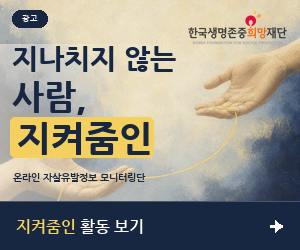
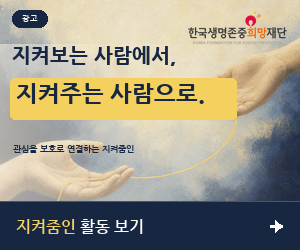
Refine protection-focused campaign copy

Changed region(s): [[0.03, 0.168, 0.81, 0.644], [0.03, 0.672, 0.48, 0.728]]

diff --git a/docs/404.html b/docs/404.html
@@ -4,23 +4,23 @@
   <meta charset="utf-8">
   <meta name="viewport" content="width=device-width, initial-scale=1">
   <meta name="theme-color" content="#172641">
-  <title>지나치지 않는 사람, 지켜줌인 — 사람 사이의 링크</title>
-  <meta name="description" content="한국생명존중희망재단의 지켜줌인 활동을 소개하고 온라인 자살유발정보 모니터링과 신고 참여로 연결하는 생명존중 공익 캠페인입니다.">
+  <title>지켜보는 사람에서, 지켜주는 사람으로 — 사람 사이의 링크</title>
+  <meta name="description" content="한국생명존중희망재단의 지켜줌인 활동을 소개하고 시민의 관심을 보호 행동으로 연결하는 생명존중 공익 캠페인입니다.">
   <link rel="canonical" href="https://ssy2205.github.io/people-between-links/">
   <link rel="icon" href="./assets/favicon.svg" type="image/svg+xml">
   <meta property="og:type" content="website">
   <meta property="og:locale" content="ko_KR">
-  <meta property="og:title" content="지나치지 않는 사람, 지켜줌인">
-  <meta property="og:description" content="시민의 관심을 교육과 공식 신고 시스템으로 연결하는 한국생명존중희망재단 가치 확산 캠페인">
+  <meta property="og:title" content="지켜보는 사람에서, 지켜주는 사람으로">
+  <meta property="og:description" content="시민의 관심을 참여·교육·공식 신고라는 보호 행동으로 연결하는 한국생명존중희망재단 가치 확산 캠페인">
   <meta property="og:url" content="https://ssy2205.github.io/people-between-links/">
   <meta property="og:image" content="https://ssy2205.github.io/people-between-links/assets/campaign-banner-300.png">
   <meta property="og:image:width" content="300">
   <meta property="og:image:height" content="250">
-  <meta property="og:image:alt" content="지나치지 않는 사람, 지켜줌인">
+  <meta property="og:image:alt" content="지켜보는 사람에서, 지켜주는 사람으로">
   <meta name="twitter:card" content="summary">
   <link rel="stylesheet" href="./styles.css">
 </head>
 <body>
-<main class="site-shell"><a class="skip-link" href="#main-content">본문 바로가기</a><div class="campaign-bar" aria-label="캠페인 안내"><div class="container campaign-bar-inner"><span class="campaign-dot" aria-hidden="true"></span><span>한국생명존중희망재단 가치 확산 캠페인</span><span class="campaign-bar-note">관심을 신고와 참여로 연결합니다</span></div></div><header class="site-header"><nav class="container nav" aria-label="주요 메뉴"><a class="foundation-brand" href="https://www.kfsp.or.kr/" target="_blank" rel="noreferrer" aria-label="한국생명존중희망재단 공식 사이트 새 창 열기"><img src="./assets/kfsp-ci.png" alt="한국생명존중희망재단"/></a><div class="nav-links"><a href="#about">지켜줌인이란</a><a href="#foundation">재단의 역할</a><a href="#join">참여 방법</a></div><a class="nav-cta" href="https://sims.kfsp.or.kr/?pMENU_NO=265" target="_blank" rel="noreferrer">자살유발정보 신고하기 <span aria-hidden="true">↗</span></a></nav></header><section class="hero" id="main-content" aria-labelledby="hero-title"><div class="hero-wash" aria-hidden="true"></div><div class="container hero-grid"><div class="hero-copy"><p class="eyebrow"><span>LINK 01</span> 사람 사이의 링크</p><h1 id="hero-title">지나치지 않는<br/>사람,<br/><em>지켜줌인.</em></h1><p class="hero-lede">온라인에서 마주친 자살유발정보를 보고 지나치지 않는 사람. 모니터링과 신고로 생명존중의 연결망을 넓혀 주세요.</p><div class="hero-actions"><a class="button button-primary" href="https://www.kfsp.or.kr/home/kor/contents.do?menuPos=2#none" target="_blank" rel="noreferrer">지켜줌인 활동 참여하기 <span aria-hidden="true">↗</span></a><a class="button button-secondary" href="https://sims.kfsp.or.kr/?pMENU_NO=265" target="_blank" rel="noreferrer">바로 신고하기 <span aria-hidden="true">→</span></a></div><p class="hero-micro">만 19세 이상 국민 누구나 참여할 수 있습니다.</p></div><div class="hero-visual" role="img" aria-label="두 손 사이의 금빛 실이 관심과 신고를 연결하는 캠페인 이미지"><img class="hero-visual-image" src="./assets/life-thread-oil-v2.png" alt=""/><div class="hero-visual-shade" aria-hidden="true"></div><span class="visual-chip">사람 사이의 링크</span><div class="visual-node visual-node-left"><small>발견한 순간</small><strong>관심</strong></div><span class="visual-thread" aria-hidden="true"></span><div class="visual-node visual-node-right"><small>이어지는 행동</small><strong>신고</strong></div><p class="visual-caption">보고,<br/>연결하고,<br/>지키는 일.</p></div></div><div class="container fact-bar" aria-label="지켜줌인 참여 핵심 정보"><div><span>참여 대상</span><strong>만 19세 이상 누구나</strong></div><div><span>활동 공간</span><strong>온라인 전반</strong></div><div><span>활동 시작</span><strong>1365 회원가입</strong></div></div></section><section class="about section" id="about" aria-labelledby="about-title"><div class="container about-grid"><div class="section-number" aria-hidden="true">01</div><div class="about-copy"><p class="eyebrow">지켜줌인(人)이란?</p><h2 id="about-title">발견한 순간,<br/><em>연결은 시작됩니다.</em></h2><p class="section-lede">지켜줌인은 생명존중문화 확산을 위해 온라인 자살유발정보를 자발적으로 모니터링하는 자원봉사자입니다. 한 번의 관심을 실제 신고와 기록으로 이어 온라인 환경을 함께 지킵니다.</p><a class="text-link" href="https://www.kfsp.or.kr/home/kor/contents.do?menuPos=2#none" target="_blank" rel="noreferrer">재단 공식 활동 안내 확인하기 <span aria-hidden="true">↗</span></a></div><aside class="quote-card" aria-label="캠페인 핵심 문장"><span class="quote-mark" aria-hidden="true">“</span><p>지나치지 않은 관심을,<br/><strong>지켜내는 행동으로.</strong></p><span class="quote-rule" aria-hidden="true"></span><small>관심에서 신고까지, 사람 사이의 링크</small></aside></div></section><section class="public-value section" id="foundation" aria-labelledby="foundation-title"><div class="container"><div class="section-heading"><div><p class="eyebrow"><span>02</span> 한국생명존중희망재단의 공공적 가치</p><h2 id="foundation-title">관심을 참여로,<br/><em>참여를 안전망으로.</em></h2></div><p>재단은 시민의 관심이 일회성 선의에 머물지 않도록 참여 기회와 교육, 공식 신고 시스템을 하나의 활동 경로로 연결합니다.</p></div><div class="value-grid"><article class="value-card"><div class="value-card-top"><span>A</span><i aria-hidden="true"></i></div><div><p>시민이 함께할 수 있도록</p><h3>참여의 문</h3><p>만 19세 이상 국민 누구나 생명존중문화 확산에 참여할 수 있는 시민 활동 경로를 엽니다.</p></div></article><article class="value-card"><div class="value-card-top"><span>B</span><i aria-hidden="true"></i></div><div><p>관심이 책임 있게 이어지도록</p><h3>교육된 실천</h3><p>1365·SIMS 가입과 사전교육을 거쳐 관심을 책임 있는 온라인 모니터링 활동으로 연결합니다.</p></div></article><article class="value-card"><div class="value-card-top"><span>C</span><i aria-hidden="true"></i></div><div><p>발견이 공식 행동이 되도록</p><h3>공적 신고 체계</h3><p>게시물 신고와 활동 기록이 미디어 자살정보 모니터링 시스템 안에서 이어지게 합니다.</p></div></article></div><div class="value-summary"><span aria-hidden="true"></span><p>지켜줌인은 재단의 역할을 가장 가까운 시민 행동으로 경험하게 하는 참여 경로입니다.</p><a class="text-link" href="https://www.kfsp.or.kr/home/kor/contents.do?menuPos=2#none" target="_blank" rel="noreferrer">공식 근거 확인하기 <span aria-hidden="true">↗</span></a></div></div></section><section class="join section section-dark" id="join" aria-labelledby="join-title"><div class="container"><div class="section-heading section-heading-light"><div><p class="eyebrow eyebrow-light"><span>03</span> 참여 방법</p><h2 id="join-title">관심이 행동이 되는<br/><em>세 단계.</em></h2></div><p>공식 안내에 따라 계정을 준비하고 사전교육을 마치면, 온라인 모니터링과 신고 활동을 시작할 수 있습니다.</p></div><div class="step-line" aria-hidden="true"></div><div class="step-grid"><article class="step-card"><span class="step-number yellow">01</span><h3>1365 회원가입</h3><p>봉사활동 실적 연계를 위해 1365 자원봉사포털 계정을 준비합니다.</p></article><article class="step-card"><span class="step-number blue">02</span><h3>SIMS 가입</h3><p>미디어 자살정보 모니터링 시스템에 가입하고 활동 준비를 마칩니다.</p></article><article class="step-card"><span class="step-number coral">03</span><h3>교육 후 활동</h3><p>사전교육을 이수한 뒤 온라인 모니터링과 신고 활동을 시작합니다.</p></article></div><div class="join-action"><p>준비되셨나요? 정확한 가입 절차와 최신 활동 조건은 재단 공식 안내에서 확인하세요.</p><a class="button button-primary" href="https://www.kfsp.or.kr/home/kor/contents.do?menuPos=2#none" target="_blank" rel="noreferrer">지켜줌인 활동 안내 보기 <span aria-hidden="true">↗</span></a></div></div></section><section class="activity section" id="activity" aria-labelledby="activity-title"><div class="container"><div class="section-heading"><div><p class="eyebrow"><span>04</span> 활동 내용</p><h2 id="activity-title">보고, 신고하고,<br/><em>기록합니다.</em></h2></div><p>복잡한 설명보다 실제 활동을 한눈에 이해할 수 있도록 공식 안내의 핵심만 세 가지로 정리했습니다.</p></div><div class="activity-grid"><article class="activity-card"><span>A</span><h3>모니터링</h3><p>SNS·포털·커뮤니티 등 온라인 공간의 자살유발·유해정보를 살펴봅니다.</p></article><article class="activity-card"><span>B</span><h3>게시물 신고</h3><p>발견한 정보는 해당 매체의 신고 기능을 통해 조치 요청합니다.</p></article><article class="activity-card"><span>C</span><h3>SIMS 활동 입력</h3><p>활동 내용을 미디어 자살정보 모니터링 시스템에 기록합니다.</p></article></div><div class="report-panel"><div><p class="report-kicker">이미 신고할 정보가 있나요?</p><h3>지금, 공식 신고 화면으로 연결합니다.</h3><p>신고 접수와 확인은 한국생명존중희망재단의 미디어 자살정보 모니터링 시스템에서 진행됩니다.</p></div><a class="button button-light" href="https://sims.kfsp.or.kr/?pMENU_NO=265" target="_blank" rel="noreferrer">자살유발정보 신고하기 <span aria-hidden="true">↗</span></a></div></div></section><section class="network section section-yellow" aria-labelledby="network-title"><div class="container network-grid"><div class="network-copy"><p class="eyebrow"><span>05</span> 연결망의 확장</p><h2 id="network-title">한 사람의 관심이<br/><em>혼자 남지 않도록.</em></h2><p>지켜줌인은 개인의 관심을 교육과 정보, 현장의 실천으로 잇는 재단의 참여 경로입니다. 연결된 행동이 생명존중문화를 넓힙니다.</p><a class="button button-dark" href="https://sims.kfsp.or.kr/" target="_blank" rel="noreferrer">SIMS에서 활동 시작하기 <span aria-hidden="true">↗</span></a></div><div class="network-visual" role="img" aria-label="관심, 교육, 정보, 현장이 모두 도움으로 연결된 생명존중 연결망"><span class="network-ring ring-one" aria-hidden="true"></span><span class="network-ring ring-two" aria-hidden="true"></span><span class="network-ring ring-three" aria-hidden="true"></span><span class="network-line line-a" aria-hidden="true"></span><span class="network-line line-b" aria-hidden="true"></span><span class="network-line line-c" aria-hidden="true"></span><span class="network-line line-d" aria-hidden="true"></span><span class="network-node node-one">관심</span><span class="network-node node-two">교육</span><span class="network-node node-three">정보</span><span class="network-node node-four">현장</span><span class="network-center">도움</span></div></div></section><section class="final-cta section" aria-labelledby="final-title"><div class="container final-cta-inner"><div><p class="eyebrow eyebrow-light">사람 사이의 링크</p><h2 id="final-title">지켜보는 사람에서,<br/><em>지켜주는 사람으로.</em></h2><p>당신의 관심을 지켜줌인 활동과 신고로 연결해 주세요.</p></div><div class="final-actions"><a class="button button-primary" href="https://www.kfsp.or.kr/home/kor/contents.do?menuPos=2#none" target="_blank" rel="noreferrer">지켜줌인 활동 참여하기 <span aria-hidden="true">↗</span></a><a class="button button-outline-light" href="https://sims.kfsp.or.kr/?pMENU_NO=265" target="_blank" rel="noreferrer">자살유발정보 신고하기 <span aria-hidden="true">↗</span></a></div></div></section><footer class="footer"><div class="container footer-main"><div><a class="footer-logo" href="https://www.kfsp.or.kr/" target="_blank" rel="noreferrer"><img src="./assets/kfsp-ci.png" alt="한국생명존중희망재단"/></a><p>본 페이지는 2026 전국 대학생 생명존중 광고공모전 출품을 위해 제작된 공익 캠페인 랜딩페이지입니다. 참여와 신고는 공식 사이트에서 진행됩니다.</p></div><div class="footer-links"><a href="https://www.kfsp.or.kr/home/kor/contents.do?menuPos=2#none" target="_blank" rel="noreferrer">지켜줌인 활동 안내 ↗</a><a href="https://sims.kfsp.or.kr/?pMENU_NO=265" target="_blank" rel="noreferrer">자살유발정보 신고 ↗</a><a href="https://www.kfsp.or.kr/" target="_blank" rel="noreferrer">재단 공식 사이트 ↗</a><a href="https://inec.or.kr/board/detail/1411" target="_blank" rel="noreferrer">공모전 안내 ↗</a></div></div><div class="container support-note"><span>지금 마음이 힘들거나 즉각적인 도움이 필요하다면</span><a href="tel:109">24시간 자살예방상담전화 109</a></div><div class="container footer-bottom"><span>사람 사이의 링크 · 2026</span><span>도움은 연결될 때 가까워집니다.</span></div></footer><a class="mobile-cta" href="https://www.kfsp.or.kr/home/kor/contents.do?menuPos=2#none" target="_blank" rel="noreferrer">지켜줌인 참여하기 <span aria-hidden="true">↗</span></a></main>
+<main class="site-shell"><a class="skip-link" href="#main-content">본문 바로가기</a><div class="campaign-bar" aria-label="캠페인 안내"><div class="container campaign-bar-inner"><span class="campaign-dot" aria-hidden="true"></span><span>한국생명존중희망재단 가치 확산 캠페인</span><span class="campaign-bar-note">관심을 보호로 연결합니다</span></div></div><header class="site-header"><nav class="container nav" aria-label="주요 메뉴"><a class="foundation-brand" href="https://www.kfsp.or.kr/" target="_blank" rel="noreferrer" aria-label="한국생명존중희망재단 공식 사이트 새 창 열기"><img src="./assets/kfsp-ci.png" alt="한국생명존중희망재단"/></a><div class="nav-links"><a href="#about">지켜줌인이란</a><a href="#foundation">재단의 역할</a><a href="#join">참여 방법</a></div><a class="nav-cta" href="https://sims.kfsp.or.kr/?pMENU_NO=265" target="_blank" rel="noreferrer">자살유발정보 신고하기 <span aria-hidden="true">↗</span></a></nav></header><section class="hero" id="main-content" aria-labelledby="hero-title"><div class="hero-wash" aria-hidden="true"></div><div class="container hero-grid"><div class="hero-copy"><p class="eyebrow"><span>LINK 01</span> 사람 사이의 링크</p><h1 id="hero-title">지켜보는 사람에서,<br/><em>지켜주는 사람으로.</em></h1><p class="hero-lede">온라인에서 마주친 자살유발정보를 지나치지 않고, 지켜줌인 활동으로 생명존중의 환경을 지켜 주세요.</p><div class="hero-actions"><a class="button button-primary" href="https://www.kfsp.or.kr/home/kor/contents.do?menuPos=2#none" target="_blank" rel="noreferrer">지켜줌인 활동 참여하기 <span aria-hidden="true">↗</span></a><a class="button button-secondary" href="https://sims.kfsp.or.kr/?pMENU_NO=265" target="_blank" rel="noreferrer">바로 신고하기 <span aria-hidden="true">→</span></a></div><p class="hero-micro">만 19세 이상 국민 누구나 참여할 수 있습니다.</p></div><div class="hero-visual" role="img" aria-label="두 손 사이의 금빛 실이 관심과 신고를 연결하는 캠페인 이미지"><img class="hero-visual-image" src="./assets/life-thread-oil-v2.png" alt=""/><div class="hero-visual-shade" aria-hidden="true"></div><span class="visual-chip">사람 사이의 링크</span><div class="visual-node visual-node-left"><small>발견한 순간</small><strong>관심</strong></div><span class="visual-thread" aria-hidden="true"></span><div class="visual-node visual-node-right"><small>이어지는 행동</small><strong>신고</strong></div><p class="visual-caption">보고,<br/>연결하고,<br/>지키는 일.</p></div></div><div class="container fact-bar" aria-label="지켜줌인 참여 핵심 정보"><div><span>참여 대상</span><strong>만 19세 이상 누구나</strong></div><div><span>활동 공간</span><strong>온라인 전반</strong></div><div><span>활동 시작</span><strong>1365 회원가입</strong></div></div></section><section class="about section" id="about" aria-labelledby="about-title"><div class="container about-grid"><div class="section-number" aria-hidden="true">01</div><div class="about-copy"><p class="eyebrow">지켜줌인(人)이란?</p><h2 id="about-title">관심이 닿는 순간,<br/><em>보호가 시작됩니다.</em></h2><p class="section-lede">지켜줌인은 생명존중문화 확산을 위해 온라인 자살유발정보를 자발적으로 모니터링하는 자원봉사자입니다. 한 번의 관심을 실제 신고와 기록으로 이어 온라인 환경을 함께 지킵니다.</p><a class="text-link" href="https://www.kfsp.or.kr/home/kor/contents.do?menuPos=2#none" target="_blank" rel="noreferrer">재단 공식 활동 안내 확인하기 <span aria-hidden="true">↗</span></a></div><aside class="quote-card" aria-label="캠페인 핵심 문장"><span class="quote-mark" aria-hidden="true">“</span><p>지켜보는 관심을,<br/><strong>지켜주는 행동으로.</strong></p><span class="quote-rule" aria-hidden="true"></span><small>관심에서 신고까지, 사람 사이의 링크</small></aside></div></section><section class="public-value section" id="foundation" aria-labelledby="foundation-title"><div class="container"><div class="section-heading"><div><p class="eyebrow"><span>02</span> 한국생명존중희망재단의 공공적 가치</p><h2 id="foundation-title">관심을 참여로,<br/><em>참여를 안전망으로.</em></h2></div><p>재단은 시민의 관심이 일회성 선의에 머물지 않도록 참여 기회와 교육, 공식 신고 시스템을 하나의 활동 경로로 연결합니다.</p></div><div class="value-grid"><article class="value-card"><div class="value-card-top"><span>A</span><i aria-hidden="true"></i></div><div><p>시민이 함께할 수 있도록</p><h3>참여의 문</h3><p>만 19세 이상 국민 누구나 생명존중문화 확산에 참여할 수 있는 시민 활동 경로를 엽니다.</p></div></article><article class="value-card"><div class="value-card-top"><span>B</span><i aria-hidden="true"></i></div><div><p>관심이 책임 있게 이어지도록</p><h3>교육된 실천</h3><p>1365·SIMS 가입과 사전교육을 거쳐 관심을 책임 있는 온라인 모니터링 활동으로 연결합니다.</p></div></article><article class="value-card"><div class="value-card-top"><span>C</span><i aria-hidden="true"></i></div><div><p>발견이 공식 행동이 되도록</p><h3>공적 신고 체계</h3><p>게시물 신고와 활동 기록이 미디어 자살정보 모니터링 시스템 안에서 이어지게 합니다.</p></div></article></div><div class="value-summary"><span aria-hidden="true"></span><p>지켜줌인은 재단의 역할을 가장 가까운 시민 행동으로 경험하게 하는 참여 경로입니다.</p><a class="text-link" href="https://www.kfsp.or.kr/home/kor/contents.do?menuPos=2#none" target="_blank" rel="noreferrer">공식 근거 확인하기 <span aria-hidden="true">↗</span></a></div></div></section><section class="join section section-dark" id="join" aria-labelledby="join-title"><div class="container"><div class="section-heading section-heading-light"><div><p class="eyebrow eyebrow-light"><span>03</span> 참여 방법</p><h2 id="join-title">관심이 행동이 되는<br/><em>세 단계.</em></h2></div><p>공식 안내에 따라 계정을 준비하고 사전교육을 마치면, 온라인 모니터링과 신고 활동을 시작할 수 있습니다.</p></div><div class="step-line" aria-hidden="true"></div><div class="step-grid"><article class="step-card"><span class="step-number yellow">01</span><h3>1365 회원가입</h3><p>봉사활동 실적 연계를 위해 1365 자원봉사포털 계정을 준비합니다.</p></article><article class="step-card"><span class="step-number blue">02</span><h3>SIMS 가입</h3><p>미디어 자살정보 모니터링 시스템에 가입하고 활동 준비를 마칩니다.</p></article><article class="step-card"><span class="step-number coral">03</span><h3>교육 후 활동</h3><p>사전교육을 이수한 뒤 온라인 모니터링과 신고 활동을 시작합니다.</p></article></div><div class="join-action"><p>준비되셨나요? 정확한 가입 절차와 최신 활동 조건은 재단 공식 안내에서 확인하세요.</p><a class="button button-primary" href="https://www.kfsp.or.kr/home/kor/contents.do?menuPos=2#none" target="_blank" rel="noreferrer">지켜줌인 활동 안내 보기 <span aria-hidden="true">↗</span></a></div></div></section><section class="activity section" id="activity" aria-labelledby="activity-title"><div class="container"><div class="section-heading"><div><p class="eyebrow"><span>04</span> 활동 내용</p><h2 id="activity-title">보고, 신고하고,<br/><em>기록합니다.</em></h2></div><p>복잡한 설명보다 실제 활동을 한눈에 이해할 수 있도록 공식 안내의 핵심만 세 가지로 정리했습니다.</p></div><div class="activity-grid"><article class="activity-card"><span>A</span><h3>모니터링</h3><p>SNS·포털·커뮤니티 등 온라인 공간의 자살유발·유해정보를 살펴봅니다.</p></article><article class="activity-card"><span>B</span><h3>게시물 신고</h3><p>발견한 정보는 해당 매체의 신고 기능을 통해 조치 요청합니다.</p></article><article class="activity-card"><span>C</span><h3>SIMS 활동 입력</h3><p>활동 내용을 미디어 자살정보 모니터링 시스템에 기록합니다.</p></article></div><div class="report-panel"><div><p class="report-kicker">이미 신고할 정보가 있나요?</p><h3>지금, 공식 신고 화면으로 연결합니다.</h3><p>신고 접수와 확인은 한국생명존중희망재단의 미디어 자살정보 모니터링 시스템에서 진행됩니다.</p></div><a class="button button-light" href="https://sims.kfsp.or.kr/?pMENU_NO=265" target="_blank" rel="noreferrer">자살유발정보 신고하기 <span aria-hidden="true">↗</span></a></div></div></section><section class="network section section-yellow" aria-labelledby="network-title"><div class="container network-grid"><div class="network-copy"><p class="eyebrow"><span>05</span> 연결망의 확장</p><h2 id="network-title">한 사람의 관심이<br/><em>혼자 남지 않도록.</em></h2><p>지켜줌인은 개인의 관심을 교육과 정보, 현장의 실천으로 잇는 재단의 참여 경로입니다. 연결된 행동이 생명존중문화를 넓힙니다.</p><a class="button button-dark" href="https://sims.kfsp.or.kr/" target="_blank" rel="noreferrer">SIMS에서 활동 시작하기 <span aria-hidden="true">↗</span></a></div><div class="network-visual" role="img" aria-label="관심, 교육, 정보, 현장이 모두 도움으로 연결된 생명존중 연결망"><span class="network-ring ring-one" aria-hidden="true"></span><span class="network-ring ring-two" aria-hidden="true"></span><span class="network-ring ring-three" aria-hidden="true"></span><span class="network-line line-a" aria-hidden="true"></span><span class="network-line line-b" aria-hidden="true"></span><span class="network-line line-c" aria-hidden="true"></span><span class="network-line line-d" aria-hidden="true"></span><span class="network-node node-one">관심</span><span class="network-node node-two">교육</span><span class="network-node node-three">정보</span><span class="network-node node-four">현장</span><span class="network-center">도움</span></div></div></section><section class="final-cta section" aria-labelledby="final-title"><div class="container final-cta-inner"><div><p class="eyebrow eyebrow-light">사람 사이의 링크</p><h2 id="final-title">지켜보는 사람에서,<br/><em>지켜주는 사람으로.</em></h2><p>당신의 관심을 지켜줌인 활동과 공식 신고로 연결해 주세요.</p></div><div class="final-actions"><a class="button button-primary" href="https://www.kfsp.or.kr/home/kor/contents.do?menuPos=2#none" target="_blank" rel="noreferrer">지켜줌인 활동 참여하기 <span aria-hidden="true">↗</span></a><a class="button button-outline-light" href="https://sims.kfsp.or.kr/?pMENU_NO=265" target="_blank" rel="noreferrer">자살유발정보 신고하기 <span aria-hidden="true">↗</span></a></div></div></section><footer class="footer"><div class="container footer-main"><div><a class="footer-logo" href="https://www.kfsp.or.kr/" target="_blank" rel="noreferrer"><img src="./assets/kfsp-ci.png" alt="한국생명존중희망재단"/></a><p>본 페이지는 2026 전국 대학생 생명존중 광고공모전 출품을 위해 제작된 공익 캠페인 랜딩페이지입니다. 참여와 신고는 공식 사이트에서 진행됩니다.</p></div><div class="footer-links"><a href="https://www.kfsp.or.kr/home/kor/contents.do?menuPos=2#none" target="_blank" rel="noreferrer">지켜줌인 활동 안내 ↗</a><a href="https://sims.kfsp.or.kr/?pMENU_NO=265" target="_blank" rel="noreferrer">자살유발정보 신고 ↗</a><a href="https://www.kfsp.or.kr/" target="_blank" rel="noreferrer">재단 공식 사이트 ↗</a><a href="https://inec.or.kr/board/detail/1411" target="_blank" rel="noreferrer">공모전 안내 ↗</a></div></div><div class="container support-note"><span>지금 마음이 힘들거나 즉각적인 도움이 필요하다면</span><a href="tel:109">24시간 자살예방상담전화 109</a></div><div class="container footer-bottom"><span>사람 사이의 링크 · 2026</span><span>관심은 보호로 이어집니다.</span></div></footer><a class="mobile-cta" href="https://www.kfsp.or.kr/home/kor/contents.do?menuPos=2#none" target="_blank" rel="noreferrer">지켜줌인 참여하기 <span aria-hidden="true">↗</span></a></main>
 </body>
 </html>

diff --git a/docs/index.html b/docs/index.html
@@ -4,23 +4,23 @@
   <meta charset="utf-8">
   <meta name="viewport" content="width=device-width, initial-scale=1">
   <meta name="theme-color" content="#172641">
-  <title>지나치지 않는 사람, 지켜줌인 — 사람 사이의 링크</title>
-  <meta name="description" content="한국생명존중희망재단의 지켜줌인 활동을 소개하고 온라인 자살유발정보 모니터링과 신고 참여로 연결하는 생명존중 공익 캠페인입니다.">
+  <title>지켜보는 사람에서, 지켜주는 사람으로 — 사람 사이의 링크</title>
+  <meta name="description" content="한국생명존중희망재단의 지켜줌인 활동을 소개하고 시민의 관심을 보호 행동으로 연결하는 생명존중 공익 캠페인입니다.">
   <link rel="canonical" href="https://ssy2205.github.io/people-between-links/">
   <link rel="icon" href="./assets/favicon.svg" type="image/svg+xml">
   <meta property="og:type" content="website">
   <meta property="og:locale" content="ko_KR">
-  <meta property="og:title" content="지나치지 않는 사람, 지켜줌인">
-  <meta property="og:description" content="시민의 관심을 교육과 공식 신고 시스템으로 연결하는 한국생명존중희망재단 가치 확산 캠페인">
+  <meta property="og:title" content="지켜보는 사람에서, 지켜주는 사람으로">
+  <meta property="og:description" content="시민의 관심을 참여·교육·공식 신고라는 보호 행동으로 연결하는 한국생명존중희망재단 가치 확산 캠페인">
   <meta property="og:url" content="https://ssy2205.github.io/people-between-links/">
   <meta property="og:image" content="https://ssy2205.github.io/people-between-links/assets/campaign-banner-300.png">
   <meta property="og:image:width" content="300">
   <meta property="og:image:height" content="250">
-  <meta property="og:image:alt" content="지나치지 않는 사람, 지켜줌인">
+  <meta property="og:image:alt" content="지켜보는 사람에서, 지켜주는 사람으로">
   <meta name="twitter:card" content="summary">
   <link rel="stylesheet" href="./styles.css">
 </head>
 <body>
-<main class="site-shell"><a class="skip-link" href="#main-content">본문 바로가기</a><div class="campaign-bar" aria-label="캠페인 안내"><div class="container campaign-bar-inner"><span class="campaign-dot" aria-hidden="true"></span><span>한국생명존중희망재단 가치 확산 캠페인</span><span class="campaign-bar-note">관심을 신고와 참여로 연결합니다</span></div></div><header class="site-header"><nav class="container nav" aria-label="주요 메뉴"><a class="foundation-brand" href="https://www.kfsp.or.kr/" target="_blank" rel="noreferrer" aria-label="한국생명존중희망재단 공식 사이트 새 창 열기"><img src="./assets/kfsp-ci.png" alt="한국생명존중희망재단"/></a><div class="nav-links"><a href="#about">지켜줌인이란</a><a href="#foundation">재단의 역할</a><a href="#join">참여 방법</a></div><a class="nav-cta" href="https://sims.kfsp.or.kr/?pMENU_NO=265" target="_blank" rel="noreferrer">자살유발정보 신고하기 <span aria-hidden="true">↗</span></a></nav></header><section class="hero" id="main-content" aria-labelledby="hero-title"><div class="hero-wash" aria-hidden="true"></div><div class="container hero-grid"><div class="hero-copy"><p class="eyebrow"><span>LINK 01</span> 사람 사이의 링크</p><h1 id="hero-title">지나치지 않는<br/>사람,<br/><em>지켜줌인.</em></h1><p class="hero-lede">온라인에서 마주친 자살유발정보를 보고 지나치지 않는 사람. 모니터링과 신고로 생명존중의 연결망을 넓혀 주세요.</p><div class="hero-actions"><a class="button button-primary" href="https://www.kfsp.or.kr/home/kor/contents.do?menuPos=2#none" target="_blank" rel="noreferrer">지켜줌인 활동 참여하기 <span aria-hidden="true">↗</span></a><a class="button button-secondary" href="https://sims.kfsp.or.kr/?pMENU_NO=265" target="_blank" rel="noreferrer">바로 신고하기 <span aria-hidden="true">→</span></a></div><p class="hero-micro">만 19세 이상 국민 누구나 참여할 수 있습니다.</p></div><div class="hero-visual" role="img" aria-label="두 손 사이의 금빛 실이 관심과 신고를 연결하는 캠페인 이미지"><img class="hero-visual-image" src="./assets/life-thread-oil-v2.png" alt=""/><div class="hero-visual-shade" aria-hidden="true"></div><span class="visual-chip">사람 사이의 링크</span><div class="visual-node visual-node-left"><small>발견한 순간</small><strong>관심</strong></div><span class="visual-thread" aria-hidden="true"></span><div class="visual-node visual-node-right"><small>이어지는 행동</small><strong>신고</strong></div><p class="visual-caption">보고,<br/>연결하고,<br/>지키는 일.</p></div></div><div class="container fact-bar" aria-label="지켜줌인 참여 핵심 정보"><div><span>참여 대상</span><strong>만 19세 이상 누구나</strong></div><div><span>활동 공간</span><strong>온라인 전반</strong></div><div><span>활동 시작</span><strong>1365 회원가입</strong></div></div></section><section class="about section" id="about" aria-labelledby="about-title"><div class="container about-grid"><div class="section-number" aria-hidden="true">01</div><div class="about-copy"><p class="eyebrow">지켜줌인(人)이란?</p><h2 id="about-title">발견한 순간,<br/><em>연결은 시작됩니다.</em></h2><p class="section-lede">지켜줌인은 생명존중문화 확산을 위해 온라인 자살유발정보를 자발적으로 모니터링하는 자원봉사자입니다. 한 번의 관심을 실제 신고와 기록으로 이어 온라인 환경을 함께 지킵니다.</p><a class="text-link" href="https://www.kfsp.or.kr/home/kor/contents.do?menuPos=2#none" target="_blank" rel="noreferrer">재단 공식 활동 안내 확인하기 <span aria-hidden="true">↗</span></a></div><aside class="quote-card" aria-label="캠페인 핵심 문장"><span class="quote-mark" aria-hidden="true">“</span><p>지나치지 않은 관심을,<br/><strong>지켜내는 행동으로.</strong></p><span class="quote-rule" aria-hidden="true"></span><small>관심에서 신고까지, 사람 사이의 링크</small></aside></div></section><section class="public-value section" id="foundation" aria-labelledby="foundation-title"><div class="container"><div class="section-heading"><div><p class="eyebrow"><span>02</span> 한국생명존중희망재단의 공공적 가치</p><h2 id="foundation-title">관심을 참여로,<br/><em>참여를 안전망으로.</em></h2></div><p>재단은 시민의 관심이 일회성 선의에 머물지 않도록 참여 기회와 교육, 공식 신고 시스템을 하나의 활동 경로로 연결합니다.</p></div><div class="value-grid"><article class="value-card"><div class="value-card-top"><span>A</span><i aria-hidden="true"></i></div><div><p>시민이 함께할 수 있도록</p><h3>참여의 문</h3><p>만 19세 이상 국민 누구나 생명존중문화 확산에 참여할 수 있는 시민 활동 경로를 엽니다.</p></div></article><article class="value-card"><div class="value-card-top"><span>B</span><i aria-hidden="true"></i></div><div><p>관심이 책임 있게 이어지도록</p><h3>교육된 실천</h3><p>1365·SIMS 가입과 사전교육을 거쳐 관심을 책임 있는 온라인 모니터링 활동으로 연결합니다.</p></div></article><article class="value-card"><div class="value-card-top"><span>C</span><i aria-hidden="true"></i></div><div><p>발견이 공식 행동이 되도록</p><h3>공적 신고 체계</h3><p>게시물 신고와 활동 기록이 미디어 자살정보 모니터링 시스템 안에서 이어지게 합니다.</p></div></article></div><div class="value-summary"><span aria-hidden="true"></span><p>지켜줌인은 재단의 역할을 가장 가까운 시민 행동으로 경험하게 하는 참여 경로입니다.</p><a class="text-link" href="https://www.kfsp.or.kr/home/kor/contents.do?menuPos=2#none" target="_blank" rel="noreferrer">공식 근거 확인하기 <span aria-hidden="true">↗</span></a></div></div></section><section class="join section section-dark" id="join" aria-labelledby="join-title"><div class="container"><div class="section-heading section-heading-light"><div><p class="eyebrow eyebrow-light"><span>03</span> 참여 방법</p><h2 id="join-title">관심이 행동이 되는<br/><em>세 단계.</em></h2></div><p>공식 안내에 따라 계정을 준비하고 사전교육을 마치면, 온라인 모니터링과 신고 활동을 시작할 수 있습니다.</p></div><div class="step-line" aria-hidden="true"></div><div class="step-grid"><article class="step-card"><span class="step-number yellow">01</span><h3>1365 회원가입</h3><p>봉사활동 실적 연계를 위해 1365 자원봉사포털 계정을 준비합니다.</p></article><article class="step-card"><span class="step-number blue">02</span><h3>SIMS 가입</h3><p>미디어 자살정보 모니터링 시스템에 가입하고 활동 준비를 마칩니다.</p></article><article class="step-card"><span class="step-number coral">03</span><h3>교육 후 활동</h3><p>사전교육을 이수한 뒤 온라인 모니터링과 신고 활동을 시작합니다.</p></article></div><div class="join-action"><p>준비되셨나요? 정확한 가입 절차와 최신 활동 조건은 재단 공식 안내에서 확인하세요.</p><a class="button button-primary" href="https://www.kfsp.or.kr/home/kor/contents.do?menuPos=2#none" target="_blank" rel="noreferrer">지켜줌인 활동 안내 보기 <span aria-hidden="true">↗</span></a></div></div></section><section class="activity section" id="activity" aria-labelledby="activity-title"><div class="container"><div class="section-heading"><div><p class="eyebrow"><span>04</span> 활동 내용</p><h2 id="activity-title">보고, 신고하고,<br/><em>기록합니다.</em></h2></div><p>복잡한 설명보다 실제 활동을 한눈에 이해할 수 있도록 공식 안내의 핵심만 세 가지로 정리했습니다.</p></div><div class="activity-grid"><article class="activity-card"><span>A</span><h3>모니터링</h3><p>SNS·포털·커뮤니티 등 온라인 공간의 자살유발·유해정보를 살펴봅니다.</p></article><article class="activity-card"><span>B</span><h3>게시물 신고</h3><p>발견한 정보는 해당 매체의 신고 기능을 통해 조치 요청합니다.</p></article><article class="activity-card"><span>C</span><h3>SIMS 활동 입력</h3><p>활동 내용을 미디어 자살정보 모니터링 시스템에 기록합니다.</p></article></div><div class="report-panel"><div><p class="report-kicker">이미 신고할 정보가 있나요?</p><h3>지금, 공식 신고 화면으로 연결합니다.</h3><p>신고 접수와 확인은 한국생명존중희망재단의 미디어 자살정보 모니터링 시스템에서 진행됩니다.</p></div><a class="button button-light" href="https://sims.kfsp.or.kr/?pMENU_NO=265" target="_blank" rel="noreferrer">자살유발정보 신고하기 <span aria-hidden="true">↗</span></a></div></div></section><section class="network section section-yellow" aria-labelledby="network-title"><div class="container network-grid"><div class="network-copy"><p class="eyebrow"><span>05</span> 연결망의 확장</p><h2 id="network-title">한 사람의 관심이<br/><em>혼자 남지 않도록.</em></h2><p>지켜줌인은 개인의 관심을 교육과 정보, 현장의 실천으로 잇는 재단의 참여 경로입니다. 연결된 행동이 생명존중문화를 넓힙니다.</p><a class="button button-dark" href="https://sims.kfsp.or.kr/" target="_blank" rel="noreferrer">SIMS에서 활동 시작하기 <span aria-hidden="true">↗</span></a></div><div class="network-visual" role="img" aria-label="관심, 교육, 정보, 현장이 모두 도움으로 연결된 생명존중 연결망"><span class="network-ring ring-one" aria-hidden="true"></span><span class="network-ring ring-two" aria-hidden="true"></span><span class="network-ring ring-three" aria-hidden="true"></span><span class="network-line line-a" aria-hidden="true"></span><span class="network-line line-b" aria-hidden="true"></span><span class="network-line line-c" aria-hidden="true"></span><span class="network-line line-d" aria-hidden="true"></span><span class="network-node node-one">관심</span><span class="network-node node-two">교육</span><span class="network-node node-three">정보</span><span class="network-node node-four">현장</span><span class="network-center">도움</span></div></div></section><section class="final-cta section" aria-labelledby="final-title"><div class="container final-cta-inner"><div><p class="eyebrow eyebrow-light">사람 사이의 링크</p><h2 id="final-title">지켜보는 사람에서,<br/><em>지켜주는 사람으로.</em></h2><p>당신의 관심을 지켜줌인 활동과 신고로 연결해 주세요.</p></div><div class="final-actions"><a class="button button-primary" href="https://www.kfsp.or.kr/home/kor/contents.do?menuPos=2#none" target="_blank" rel="noreferrer">지켜줌인 활동 참여하기 <span aria-hidden="true">↗</span></a><a class="button button-outline-light" href="https://sims.kfsp.or.kr/?pMENU_NO=265" target="_blank" rel="noreferrer">자살유발정보 신고하기 <span aria-hidden="true">↗</span></a></div></div></section><footer class="footer"><div class="container footer-main"><div><a class="footer-logo" href="https://www.kfsp.or.kr/" target="_blank" rel="noreferrer"><img src="./assets/kfsp-ci.png" alt="한국생명존중희망재단"/></a><p>본 페이지는 2026 전국 대학생 생명존중 광고공모전 출품을 위해 제작된 공익 캠페인 랜딩페이지입니다. 참여와 신고는 공식 사이트에서 진행됩니다.</p></div><div class="footer-links"><a href="https://www.kfsp.or.kr/home/kor/contents.do?menuPos=2#none" target="_blank" rel="noreferrer">지켜줌인 활동 안내 ↗</a><a href="https://sims.kfsp.or.kr/?pMENU_NO=265" target="_blank" rel="noreferrer">자살유발정보 신고 ↗</a><a href="https://www.kfsp.or.kr/" target="_blank" rel="noreferrer">재단 공식 사이트 ↗</a><a href="https://inec.or.kr/board/detail/1411" target="_blank" rel="noreferrer">공모전 안내 ↗</a></div></div><div class="container support-note"><span>지금 마음이 힘들거나 즉각적인 도움이 필요하다면</span><a href="tel:109">24시간 자살예방상담전화 109</a></div><div class="container footer-bottom"><span>사람 사이의 링크 · 2026</span><span>도움은 연결될 때 가까워집니다.</span></div></footer><a class="mobile-cta" href="https://www.kfsp.or.kr/home/kor/contents.do?menuPos=2#none" target="_blank" rel="noreferrer">지켜줌인 참여하기 <span aria-hidden="true">↗</span></a></main>
+<main class="site-shell"><a class="skip-link" href="#main-content">본문 바로가기</a><div class="campaign-bar" aria-label="캠페인 안내"><div class="container campaign-bar-inner"><span class="campaign-dot" aria-hidden="true"></span><span>한국생명존중희망재단 가치 확산 캠페인</span><span class="campaign-bar-note">관심을 보호로 연결합니다</span></div></div><header class="site-header"><nav class="container nav" aria-label="주요 메뉴"><a class="foundation-brand" href="https://www.kfsp.or.kr/" target="_blank" rel="noreferrer" aria-label="한국생명존중희망재단 공식 사이트 새 창 열기"><img src="./assets/kfsp-ci.png" alt="한국생명존중희망재단"/></a><div class="nav-links"><a href="#about">지켜줌인이란</a><a href="#foundation">재단의 역할</a><a href="#join">참여 방법</a></div><a class="nav-cta" href="https://sims.kfsp.or.kr/?pMENU_NO=265" target="_blank" rel="noreferrer">자살유발정보 신고하기 <span aria-hidden="true">↗</span></a></nav></header><section class="hero" id="main-content" aria-labelledby="hero-title"><div class="hero-wash" aria-hidden="true"></div><div class="container hero-grid"><div class="hero-copy"><p class="eyebrow"><span>LINK 01</span> 사람 사이의 링크</p><h1 id="hero-title">지켜보는 사람에서,<br/><em>지켜주는 사람으로.</em></h1><p class="hero-lede">온라인에서 마주친 자살유발정보를 지나치지 않고, 지켜줌인 활동으로 생명존중의 환경을 지켜 주세요.</p><div class="hero-actions"><a class="button button-primary" href="https://www.kfsp.or.kr/home/kor/contents.do?menuPos=2#none" target="_blank" rel="noreferrer">지켜줌인 활동 참여하기 <span aria-hidden="true">↗</span></a><a class="button button-secondary" href="https://sims.kfsp.or.kr/?pMENU_NO=265" target="_blank" rel="noreferrer">바로 신고하기 <span aria-hidden="true">→</span></a></div><p class="hero-micro">만 19세 이상 국민 누구나 참여할 수 있습니다.</p></div><div class="hero-visual" role="img" aria-label="두 손 사이의 금빛 실이 관심과 신고를 연결하는 캠페인 이미지"><img class="hero-visual-image" src="./assets/life-thread-oil-v2.png" alt=""/><div class="hero-visual-shade" aria-hidden="true"></div><span class="visual-chip">사람 사이의 링크</span><div class="visual-node visual-node-left"><small>발견한 순간</small><strong>관심</strong></div><span class="visual-thread" aria-hidden="true"></span><div class="visual-node visual-node-right"><small>이어지는 행동</small><strong>신고</strong></div><p class="visual-caption">보고,<br/>연결하고,<br/>지키는 일.</p></div></div><div class="container fact-bar" aria-label="지켜줌인 참여 핵심 정보"><div><span>참여 대상</span><strong>만 19세 이상 누구나</strong></div><div><span>활동 공간</span><strong>온라인 전반</strong></div><div><span>활동 시작</span><strong>1365 회원가입</strong></div></div></section><section class="about section" id="about" aria-labelledby="about-title"><div class="container about-grid"><div class="section-number" aria-hidden="true">01</div><div class="about-copy"><p class="eyebrow">지켜줌인(人)이란?</p><h2 id="about-title">관심이 닿는 순간,<br/><em>보호가 시작됩니다.</em></h2><p class="section-lede">지켜줌인은 생명존중문화 확산을 위해 온라인 자살유발정보를 자발적으로 모니터링하는 자원봉사자입니다. 한 번의 관심을 실제 신고와 기록으로 이어 온라인 환경을 함께 지킵니다.</p><a class="text-link" href="https://www.kfsp.or.kr/home/kor/contents.do?menuPos=2#none" target="_blank" rel="noreferrer">재단 공식 활동 안내 확인하기 <span aria-hidden="true">↗</span></a></div><aside class="quote-card" aria-label="캠페인 핵심 문장"><span class="quote-mark" aria-hidden="true">“</span><p>지켜보는 관심을,<br/><strong>지켜주는 행동으로.</strong></p><span class="quote-rule" aria-hidden="true"></span><small>관심에서 신고까지, 사람 사이의 링크</small></aside></div></section><section class="public-value section" id="foundation" aria-labelledby="foundation-title"><div class="container"><div class="section-heading"><div><p class="eyebrow"><span>02</span> 한국생명존중희망재단의 공공적 가치</p><h2 id="foundation-title">관심을 참여로,<br/><em>참여를 안전망으로.</em></h2></div><p>재단은 시민의 관심이 일회성 선의에 머물지 않도록 참여 기회와 교육, 공식 신고 시스템을 하나의 활동 경로로 연결합니다.</p></div><div class="value-grid"><article class="value-card"><div class="value-card-top"><span>A</span><i aria-hidden="true"></i></div><div><p>시민이 함께할 수 있도록</p><h3>참여의 문</h3><p>만 19세 이상 국민 누구나 생명존중문화 확산에 참여할 수 있는 시민 활동 경로를 엽니다.</p></div></article><article class="value-card"><div class="value-card-top"><span>B</span><i aria-hidden="true"></i></div><div><p>관심이 책임 있게 이어지도록</p><h3>교육된 실천</h3><p>1365·SIMS 가입과 사전교육을 거쳐 관심을 책임 있는 온라인 모니터링 활동으로 연결합니다.</p></div></article><article class="value-card"><div class="value-card-top"><span>C</span><i aria-hidden="true"></i></div><div><p>발견이 공식 행동이 되도록</p><h3>공적 신고 체계</h3><p>게시물 신고와 활동 기록이 미디어 자살정보 모니터링 시스템 안에서 이어지게 합니다.</p></div></article></div><div class="value-summary"><span aria-hidden="true"></span><p>지켜줌인은 재단의 역할을 가장 가까운 시민 행동으로 경험하게 하는 참여 경로입니다.</p><a class="text-link" href="https://www.kfsp.or.kr/home/kor/contents.do?menuPos=2#none" target="_blank" rel="noreferrer">공식 근거 확인하기 <span aria-hidden="true">↗</span></a></div></div></section><section class="join section section-dark" id="join" aria-labelledby="join-title"><div class="container"><div class="section-heading section-heading-light"><div><p class="eyebrow eyebrow-light"><span>03</span> 참여 방법</p><h2 id="join-title">관심이 행동이 되는<br/><em>세 단계.</em></h2></div><p>공식 안내에 따라 계정을 준비하고 사전교육을 마치면, 온라인 모니터링과 신고 활동을 시작할 수 있습니다.</p></div><div class="step-line" aria-hidden="true"></div><div class="step-grid"><article class="step-card"><span class="step-number yellow">01</span><h3>1365 회원가입</h3><p>봉사활동 실적 연계를 위해 1365 자원봉사포털 계정을 준비합니다.</p></article><article class="step-card"><span class="step-number blue">02</span><h3>SIMS 가입</h3><p>미디어 자살정보 모니터링 시스템에 가입하고 활동 준비를 마칩니다.</p></article><article class="step-card"><span class="step-number coral">03</span><h3>교육 후 활동</h3><p>사전교육을 이수한 뒤 온라인 모니터링과 신고 활동을 시작합니다.</p></article></div><div class="join-action"><p>준비되셨나요? 정확한 가입 절차와 최신 활동 조건은 재단 공식 안내에서 확인하세요.</p><a class="button button-primary" href="https://www.kfsp.or.kr/home/kor/contents.do?menuPos=2#none" target="_blank" rel="noreferrer">지켜줌인 활동 안내 보기 <span aria-hidden="true">↗</span></a></div></div></section><section class="activity section" id="activity" aria-labelledby="activity-title"><div class="container"><div class="section-heading"><div><p class="eyebrow"><span>04</span> 활동 내용</p><h2 id="activity-title">보고, 신고하고,<br/><em>기록합니다.</em></h2></div><p>복잡한 설명보다 실제 활동을 한눈에 이해할 수 있도록 공식 안내의 핵심만 세 가지로 정리했습니다.</p></div><div class="activity-grid"><article class="activity-card"><span>A</span><h3>모니터링</h3><p>SNS·포털·커뮤니티 등 온라인 공간의 자살유발·유해정보를 살펴봅니다.</p></article><article class="activity-card"><span>B</span><h3>게시물 신고</h3><p>발견한 정보는 해당 매체의 신고 기능을 통해 조치 요청합니다.</p></article><article class="activity-card"><span>C</span><h3>SIMS 활동 입력</h3><p>활동 내용을 미디어 자살정보 모니터링 시스템에 기록합니다.</p></article></div><div class="report-panel"><div><p class="report-kicker">이미 신고할 정보가 있나요?</p><h3>지금, 공식 신고 화면으로 연결합니다.</h3><p>신고 접수와 확인은 한국생명존중희망재단의 미디어 자살정보 모니터링 시스템에서 진행됩니다.</p></div><a class="button button-light" href="https://sims.kfsp.or.kr/?pMENU_NO=265" target="_blank" rel="noreferrer">자살유발정보 신고하기 <span aria-hidden="true">↗</span></a></div></div></section><section class="network section section-yellow" aria-labelledby="network-title"><div class="container network-grid"><div class="network-copy"><p class="eyebrow"><span>05</span> 연결망의 확장</p><h2 id="network-title">한 사람의 관심이<br/><em>혼자 남지 않도록.</em></h2><p>지켜줌인은 개인의 관심을 교육과 정보, 현장의 실천으로 잇는 재단의 참여 경로입니다. 연결된 행동이 생명존중문화를 넓힙니다.</p><a class="button button-dark" href="https://sims.kfsp.or.kr/" target="_blank" rel="noreferrer">SIMS에서 활동 시작하기 <span aria-hidden="true">↗</span></a></div><div class="network-visual" role="img" aria-label="관심, 교육, 정보, 현장이 모두 도움으로 연결된 생명존중 연결망"><span class="network-ring ring-one" aria-hidden="true"></span><span class="network-ring ring-two" aria-hidden="true"></span><span class="network-ring ring-three" aria-hidden="true"></span><span class="network-line line-a" aria-hidden="true"></span><span class="network-line line-b" aria-hidden="true"></span><span class="network-line line-c" aria-hidden="true"></span><span class="network-line line-d" aria-hidden="true"></span><span class="network-node node-one">관심</span><span class="network-node node-two">교육</span><span class="network-node node-three">정보</span><span class="network-node node-four">현장</span><span class="network-center">도움</span></div></div></section><section class="final-cta section" aria-labelledby="final-title"><div class="container final-cta-inner"><div><p class="eyebrow eyebrow-light">사람 사이의 링크</p><h2 id="final-title">지켜보는 사람에서,<br/><em>지켜주는 사람으로.</em></h2><p>당신의 관심을 지켜줌인 활동과 공식 신고로 연결해 주세요.</p></div><div class="final-actions"><a class="button button-primary" href="https://www.kfsp.or.kr/home/kor/contents.do?menuPos=2#none" target="_blank" rel="noreferrer">지켜줌인 활동 참여하기 <span aria-hidden="true">↗</span></a><a class="button button-outline-light" href="https://sims.kfsp.or.kr/?pMENU_NO=265" target="_blank" rel="noreferrer">자살유발정보 신고하기 <span aria-hidden="true">↗</span></a></div></div></section><footer class="footer"><div class="container footer-main"><div><a class="footer-logo" href="https://www.kfsp.or.kr/" target="_blank" rel="noreferrer"><img src="./assets/kfsp-ci.png" alt="한국생명존중희망재단"/></a><p>본 페이지는 2026 전국 대학생 생명존중 광고공모전 출품을 위해 제작된 공익 캠페인 랜딩페이지입니다. 참여와 신고는 공식 사이트에서 진행됩니다.</p></div><div class="footer-links"><a href="https://www.kfsp.or.kr/home/kor/contents.do?menuPos=2#none" target="_blank" rel="noreferrer">지켜줌인 활동 안내 ↗</a><a href="https://sims.kfsp.or.kr/?pMENU_NO=265" target="_blank" rel="noreferrer">자살유발정보 신고 ↗</a><a href="https://www.kfsp.or.kr/" target="_blank" rel="noreferrer">재단 공식 사이트 ↗</a><a href="https://inec.or.kr/board/detail/1411" target="_blank" rel="noreferrer">공모전 안내 ↗</a></div></div><div class="container support-note"><span>지금 마음이 힘들거나 즉각적인 도움이 필요하다면</span><a href="tel:109">24시간 자살예방상담전화 109</a></div><div class="container footer-bottom"><span>사람 사이의 링크 · 2026</span><span>관심은 보호로 이어집니다.</span></div></footer><a class="mobile-cta" href="https://www.kfsp.or.kr/home/kor/contents.do?menuPos=2#none" target="_blank" rel="noreferrer">지켜줌인 참여하기 <span aria-hidden="true">↗</span></a></main>
 </body>
 </html>

diff --git a/app/page.tsx b/app/page.tsx
@@ -78,7 +78,7 @@ export default function Home() {
         <div className="container campaign-bar-inner">
           <span className="campaign-dot" aria-hidden="true" />
           <span>한국생명존중희망재단 가치 확산 캠페인</span>
-          <span className="campaign-bar-note">관심을 신고와 참여로 연결합니다</span>
+          <span className="campaign-bar-note">관심을 보호로 연결합니다</span>
         </div>
       </div>
 
@@ -117,15 +117,13 @@ export default function Home() {
               <span>LINK 01</span> 사람 사이의 링크
             </p>
             <h1 id="hero-title">
-              지나치지 않는
+              지켜보는 사람에서,
               <br />
-              사람,
-              <br />
-              <em>지켜줌인.</em>
+              <em>지켜주는 사람으로.</em>
             </h1>
             <p className="hero-lede">
-              온라인에서 마주친 자살유발정보를 보고 지나치지 않는 사람.
-              모니터링과 신고로 생명존중의 연결망을 넓혀 주세요.
+              온라인에서 마주친 자살유발정보를 지나치지 않고,
+              지켜줌인 활동으로 생명존중의 환경을 지켜 주세요.
             </p>
             <div className="hero-actions">
               <a
@@ -205,9 +203,9 @@ export default function Home() {
           <div className="about-copy">
             <p className="eyebrow">지켜줌인(人)이란?</p>
             <h2 id="about-title">
-              발견한 순간,
+              관심이 닿는 순간,
               <br />
-              <em>연결은 시작됩니다.</em>
+              <em>보호가 시작됩니다.</em>
             </h2>
             <p className="section-lede">
               지켜줌인은 생명존중문화 확산을 위해 온라인 자살유발정보를
@@ -228,9 +226,9 @@ export default function Home() {
               “
             </span>
             <p>
-              지나치지 않은 관심을,
+              지켜보는 관심을,
               <br />
-              <strong>지켜내는 행동으로.</strong>
+              <strong>지켜주는 행동으로.</strong>
             </p>
             <span className="quote-rule" aria-hidden="true" />
             <small>관심에서 신고까지, 사람 사이의 링크</small>
@@ -453,7 +451,7 @@ export default function Home() {
               <em>지켜주는 사람으로.</em>
             </h2>
             <p>
-              당신의 관심을 지켜줌인 활동과 신고로 연결해 주세요.
+              당신의 관심을 지켜줌인 활동과 공식 신고로 연결해 주세요.
             </p>
           </div>
           <div className="final-actions">
@@ -515,7 +513,7 @@ export default function Home() {
         </div>
         <div className="container footer-bottom">
           <span>사람 사이의 링크 · 2026</span>
-          <span>도움은 연결될 때 가까워집니다.</span>
+          <span>관심은 보호로 이어집니다.</span>
         </div>
       </footer>
 

diff --git a/app/layout.tsx b/app/layout.tsx
@@ -3,31 +3,31 @@ import "./globals.css";
 
 export const metadata: Metadata = {
   metadataBase: new URL("https://people-between-links.influmatics.chatgpt.site"),
-  title: "지나치지 않는 사람, 지켜줌인 — 사람 사이의 링크",
+  title: "지켜보는 사람에서, 지켜주는 사람으로 — 사람 사이의 링크",
   description:
-    "한국생명존중희망재단의 지켜줌인 활동을 소개하고 온라인 자살유발정보 모니터링과 신고 참여로 연결하는 생명존중 공익 캠페인입니다.",
+    "한국생명존중희망재단의 지켜줌인 활동을 소개하고 시민의 관심을 보호 행동으로 연결하는 생명존중 공익 캠페인입니다.",
   icons: {
     icon: "/favicon.svg",
     shortcut: "/favicon.svg",
   },
   openGraph: {
-    title: "지나치지 않는 사람, 지켜줌인",
+    title: "지켜보는 사람에서, 지켜주는 사람으로",
     description:
-      "시민의 관심을 교육과 공식 신고 시스템으로 연결하는 한국생명존중희망재단 가치 확산 캠페인",
+      "시민의 관심을 참여·교육·공식 신고라는 보호 행동으로 연결하는 한국생명존중희망재단 가치 확산 캠페인",
     type: "website",
     images: [
       {
         url: "/campaign-banner-300.png",
         width: 300,
         height: 250,
-        alt: "지나치지 않는 사람, 지켜줌인",
+        alt: "지켜보는 사람에서, 지켜주는 사람으로",
       },
     ],
   },
   twitter: {
     card: "summary",
-    title: "지나치지 않는 사람, 지켜줌인",
-    description: "온라인 자살유발정보를 발견했다면 지켜줌인으로 연결해 주세요.",
+    title: "지켜보는 사람에서, 지켜주는 사람으로",
+    description: "온라인 자살유발정보를 발견했다면 관심을 보호 행동으로 연결해 주세요.",
     images: ["/campaign-banner-300.png"],
   },
 };

diff --git a/scripts/build_final_banner.py b/scripts/build_final_banner.py
@@ -60,19 +60,18 @@ def build_banner() -> Image.Image:
     logo.thumbnail((108, 44), Image.Resampling.LANCZOS)
     canvas.alpha_composite(logo, (WIDTH - logo.width - 10, 5))
 
-    draw.text((12, 42), "지나치지 않는", font=font(28, extra_bold=True), fill=NAVY)
-    draw.text((12, 76), "사람,", font=font(34, extra_bold=True), fill=NAVY)
-    draw.rounded_rectangle((10, 117, 153, 157), radius=5, fill=YELLOW)
+    draw.text((12, 43), "지켜보는 사람에서,", font=font(20, extra_bold=True), fill=NAVY)
+    draw.rounded_rectangle((10, 78, 236, 119), radius=5, fill=YELLOW)
     draw.text(
-        (17, 116),
-        "지켜줌인",
-        font=font(36, extra_bold=True),
+        (16, 79),
+        "지켜주는 사람으로.",
+        font=font(23, extra_bold=True),
         fill=NAVY,
     )
     draw.text(
-        (13, 171),
-        "온라인 자살유발정보 모니터링단",
-        font=font(10),
+        (13, 143),
+        "관심을 보호로 연결하는 지켜줌인",
+        font=font(9),
         fill=NAVY,
     )
 

diff --git a/README.md b/README.md
@@ -2,7 +2,7 @@
 
 2026 전국 대학생 생명존중 광고공모전의 `한국생명존중희망재단의 역할과 공공적 가치 확산 광고` 출품용 랜딩페이지입니다.
 
-메인 카피는 **“지나치지 않는 사람, 지켜줌인.”**이며, 시민의 관심을 재단의 참여·교육·공식 신고 체계와 연결해 지켜줌인 활동 참여를 유도합니다.
+메인 카피는 **“지켜보는 사람에서, 지켜주는 사람으로.”**이며, 시민의 관심을 보호 행동으로 연결해 지켜줌인 활동 참여를 유도합니다.
 
 ## 공개 페이지
 
